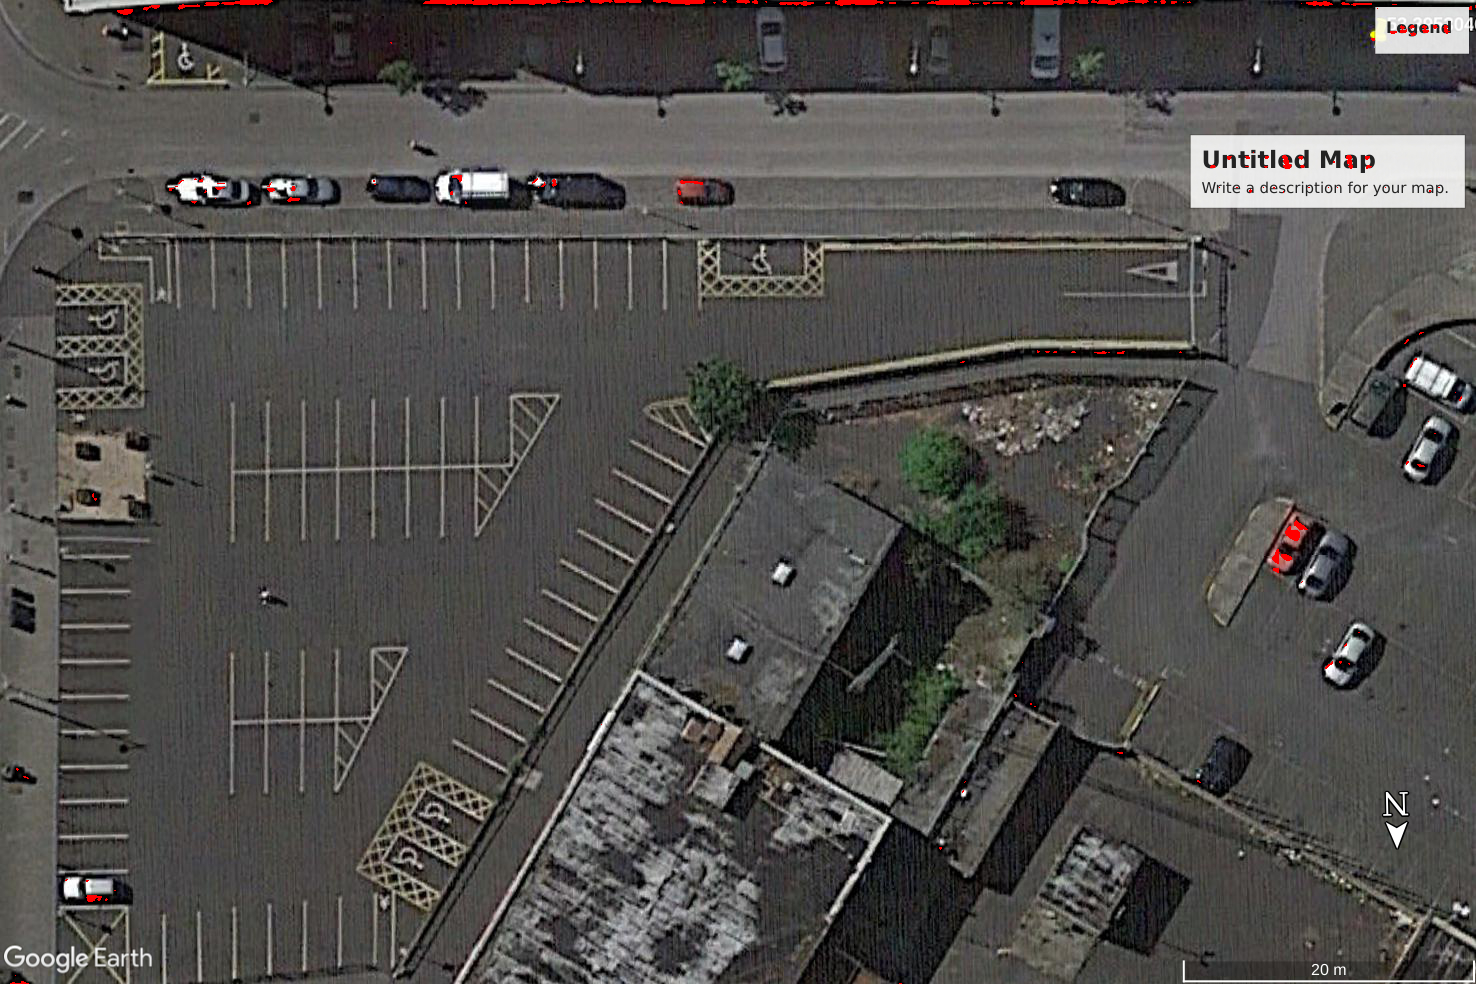
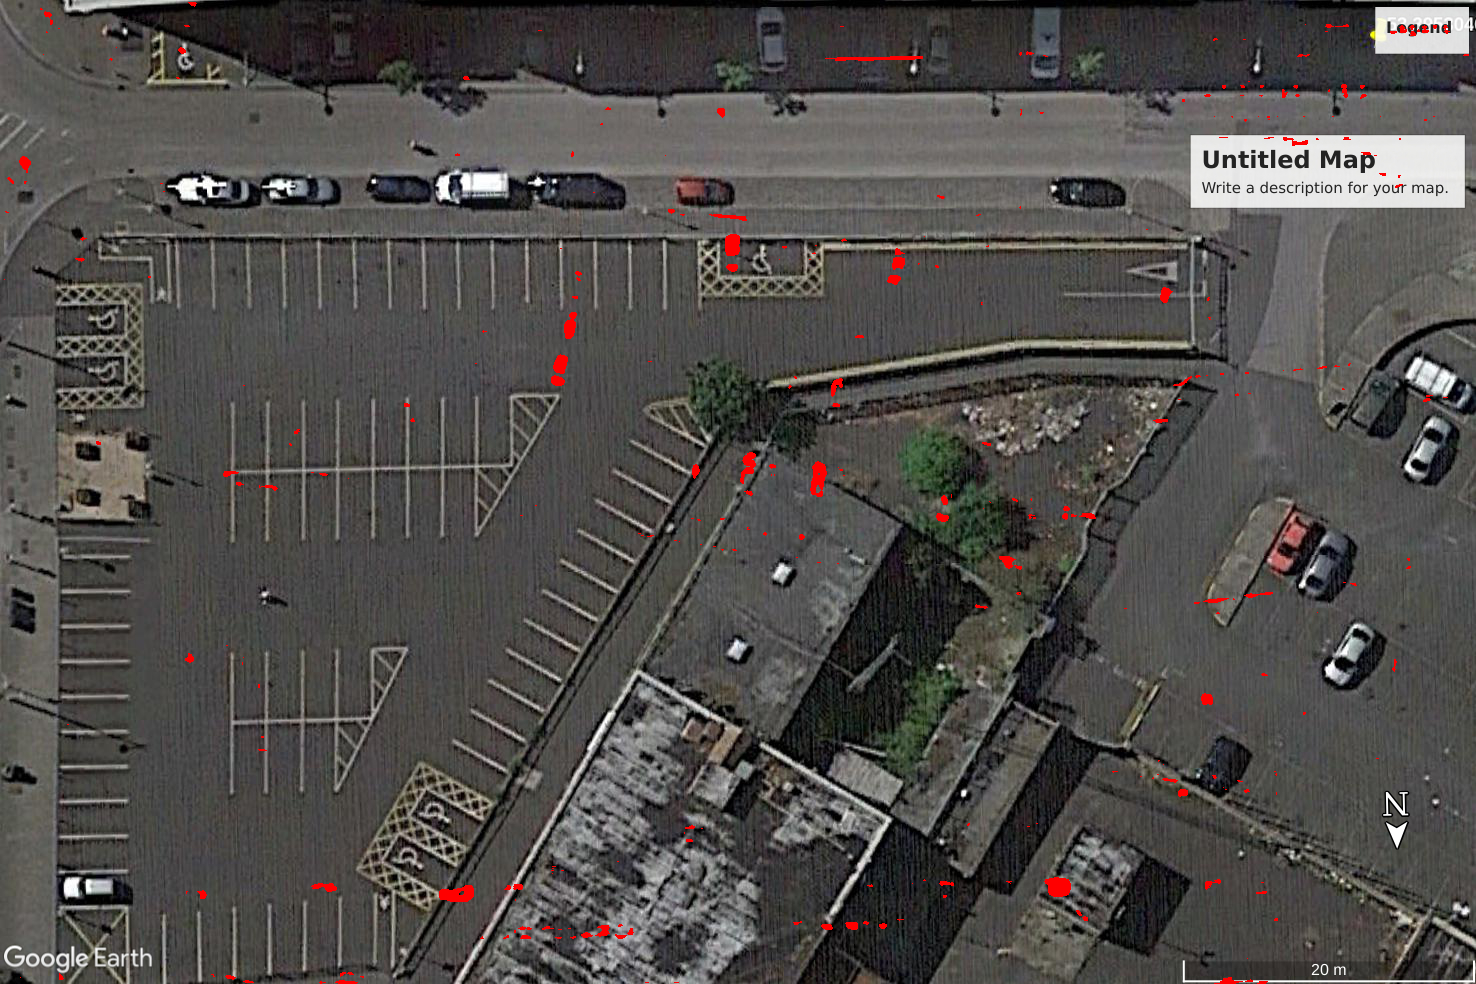
new pred

diff --git a/predict.py b/predict.py
@@ -46,7 +46,7 @@ if __name__ == '__main__':
     model = UNet()
     model = utils.load_weights_from_disk(model)
     input_image = utils.input_image()
-    loader = dataset.full_image_loader(tile_size=tile_size, img_path="images/img/train3.jpg")
+    loader = dataset.full_image_loader(tile_size=tile_size, img_path="images/img/train4.jpg")
 
     prediction = predict(model, loader, device=device,
                          class_label=ClassLabel.house)
